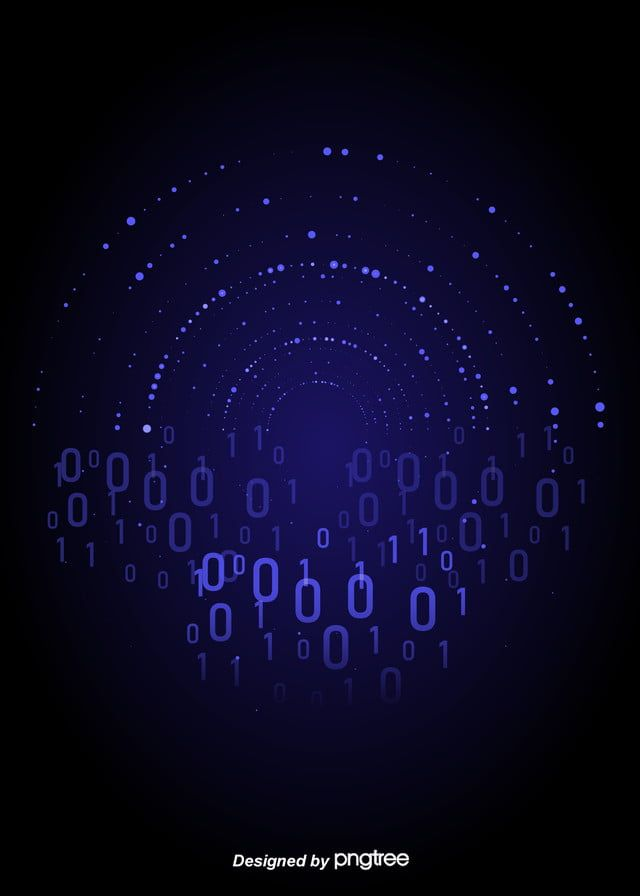
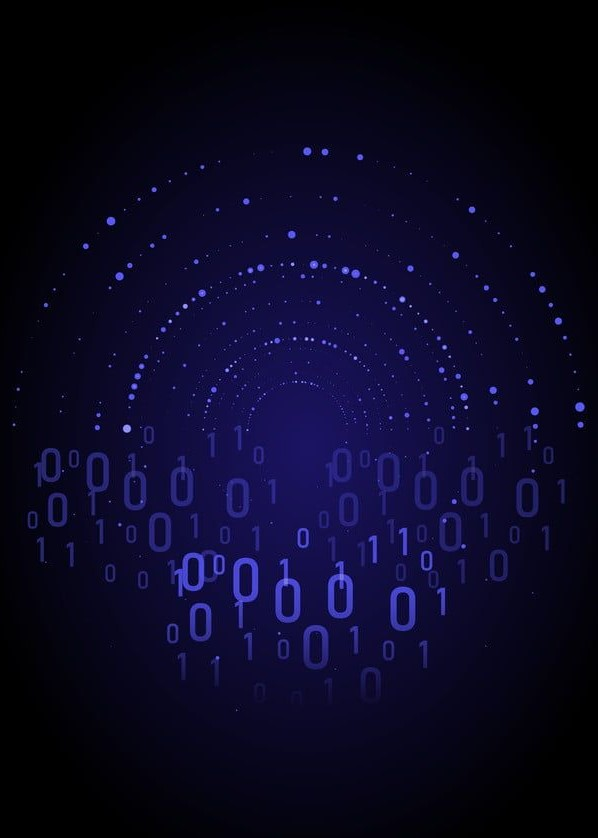
modified the responsiveness and changed the backgr und image

diff --git a/index.html b/index.html
@@ -51,7 +51,7 @@
                                     <h1>HELLO, I'M <br> <span>Barnabas Oyewole</span></h1>
                                 </div>
                                 <p class="lead">Frontend Developer</p>
-                                <a href="#" class="btn btn-primary">DOWNLOAD RESUME</a>
+                                <a href="https://drive.google.com/file/d/1h7p51AtgI5WaGZKDo4uzwp4yMLhuYWhR/view?usp=sharing" class="btn btn-primary">DOWNLOAD RESUME</a>
                             </div>
                         </div>
                     </div>
@@ -72,14 +72,7 @@
                                     <p>My expertise spans a wide array of IT frameworks, complemented by a deep understanding of web development principles. </p>
                                     <p>This comprehensive skill set enables me to not only provide effective solutions but also offer valuable guidance and tutoring in the field of web development.</p>
                                 </div>
-                                <div class="about-icon">
-                                    <a href="#" class="social-icon" style="background-color: #1877F2;"><i class="fab fa-facebook"></i></a>
-                                    <a href="#" class="social-icon" style="background-color: white;"><i class="fa-brands fa-x-twitter"></i></a>
-                                    <a href="#" class="social-icon" style="background-color: #E4405F;"><i class="fab fa-instagram"></i></a>
-<a href="#" class="social-icon" style="background-color: #0A66C2;"><i class="fab fa-linkedin"></i></a>
-<a href="#" class="social-icon" style="background-color: #000000;"><i class="fab fa-github"></i></a>
-
-                                </div>
+                                
                             </div>
                         </div>
                     </div>
@@ -231,7 +224,7 @@
                                     <div class="portfolio-info">
                                         <h3>My Portfolio</h3>
                                         <p class="description">Developed a personal portfolio website showcasing my projects, skills, and achievements in web development. Implemented responsive design, smooth animations, and interactive elements to engage visitors and highlight my capabilities effectively.</p>
-                                        <a href="#" class="btn btn-primary">View Project</a>
+                                        <a href="https://barnabas.vercel.app" class="btn btn-primary">View Project</a>
                                     </div>
                                 </div>
                             </div>
@@ -254,7 +247,7 @@
         <div class="col-12 col-lg-9">
           <div class="">
   
-            <form action="https://formsubmit.co/oyewolebarnabas97@email.com" method="post">
+            <form action="https://formsubmit.co/oyewolebarnabas97@gmail.com" method="post">
               <div class="row gy-4 gy-xl-5 p-4 p-xl-5">
                 <div class="col-12">
                   <label for="fullname" class="form-label">Full Name</label>
@@ -311,16 +304,22 @@
                                         <h4>About Me</h4>
                                         <p>Welcome to my portfolio! Here, you'll find a showcase of my latest projects and creations. From web design to application development, I'm passionate about bringing ideas to life through code and creativity.</p>
                                     </div>
+                                    <div class="about-icon">
+                                        <a href="https://linkedin.com/in/barnabas-oyewole" class="social-icon" style="background-color: #0A66C2;"><i class="fab fa-linkedin"></i></a>
+                                        <a href="https://github.com/Courage97" class="social-icon" style="background-color: #000000;"><i class="fab fa-github"></i></a>
+                                        <a href="https://x.com/@Barnabas_Pelumi" class="social-icon" style="background-color: black;"><i class="fa-brands fa-x-twitter"></i></a>
+                                        <a href="https://facebook.com/OyewoleBarnabas" class="social-icon" style="background-color: #1877F2;"><i class="fab fa-facebook"></i></a>
+                                    </div>
                                 </div>
                                 <div class="col-lg-2 col-md-6">
                                     <div class="single-footer-widget">
                                         <h4>Quick Links</h4>
                                         <ul>
-                                            <li><a href="#">Home</a></li>
-                                            <li><a href="#">About</a></li>
-                                            <li><a href="#">Service</a></li>
-                                            <li><a href="#">Portfolio</a></li>
-                                            <li><a href="#">Contact</a></li>
+                                            <li><a href="#home">Home</a></li>
+                                            <li><a href="#about">About</a></li>
+                                            <li><a href="#service">Service</a></li>
+                                            <li><a href="#portfolio">Portfolio</a></li>
+                                            <li><a href="#contact">Contact</a></li>
                                         </ul>
                                     </div>
                                 </div>
@@ -337,9 +336,9 @@
                                 <div class="col-lg-3 col-md-6">
                                     <div class="single-footer-widget">
                                         <h4>Subscribe</h4>
-                                        <form class="subscribe-form" action="#" method="post">
+                                        <form action="https://formsubmit.co/oyewolebarnabas97@gmail.com" method="post" class="subscribe-form">
                                             <input type="email" name="EMAIL" id="newsletter-form-email" placeholder="Email Address">
-                                            <button type="submit" class="btn">Sign Up</button>
+                                            <button type="submit" class="btn btn-primary mt-3 mr-7">Sign Up</button>
                                         </form>
                                     </div>
                                 </div>
@@ -351,7 +350,7 @@
                             <div class="row align-items-center">
                                 <div class="col-xl-12">
                                     <div class="footer-copy-right text-center">
-                                        <p>&copy; <script>document.write(new Date().getFullYear())</script> All rights reserved.</p>
+                                        <p class="text-secondary pt-5">&copy; <script>document.write(new Date().getFullYear())</script> All rights reserved.| Barnabas Oyewole.</p>
                                     </div>
                                 </div>
                             </div>

diff --git a/style.css b/style.css
@@ -8,7 +8,14 @@
   body{
     background-color:#12100E !important; 
     font-family: 'Poppins', sans-serif !important;
+    overflow-x: hidden !important;
   }
+  @media only screen and (max-width: 720px) {
+    html, body {
+      overflow-x: hidden !important;
+    }
+  }
+  
   /* BASIC SETUP */
   
   .page-wrapper {
@@ -42,6 +49,7 @@
     height: 50px;
     width: 100%;
     overflow: hidden;
+    overflow-x: hidden;
     padding-left: 30px;
     position: fixed;
     z-index:1000;
@@ -280,9 +288,10 @@
     display: flex;
     justify-content: center; 
     align-items: center;
-    height: 100vh; 
+    height: 100%; 
     width: 100%;
-    padding: 50px 0;
+    padding: 50px 10px;
+    overflow-x: hidden;
     /* animation: fadeInUp 3s ease-in-out; */
 }
 .home .name{
@@ -292,7 +301,7 @@
     line-height: 40px;
 }
 .home .name h1{
-    font-size: 35px;
+    font-size: 30px;
     font-weight: 500;
     line-height: 5rem;
 }
@@ -340,7 +349,8 @@
     position: relative;
     overflow: hidden;
     padding: 50px 0;
-    margin-left:40px;
+    margin: 0 20px;
+    width: 100%;
     z-index:1;
 }
 
@@ -409,6 +419,7 @@
   display: inline-block;
   border-radius: 50%;
   margin-right: 35px;
+  margin:10px;
   transition: background-color 0.3s, transform 0.3s;
 }
 
@@ -652,14 +663,14 @@ canvas {
     margin-left:40px;
   }
 .footer h4{
-  color: white;
+  color: #1A8CB8;
   font-size: 20px;
   font-weight: 700;
   padding-bottom: 30px;
 }
 .footer p{
   color: white;
-  font-size: 15px;
+  font-size: 12px;
 }
 .footer ul{
   list-style: none;
